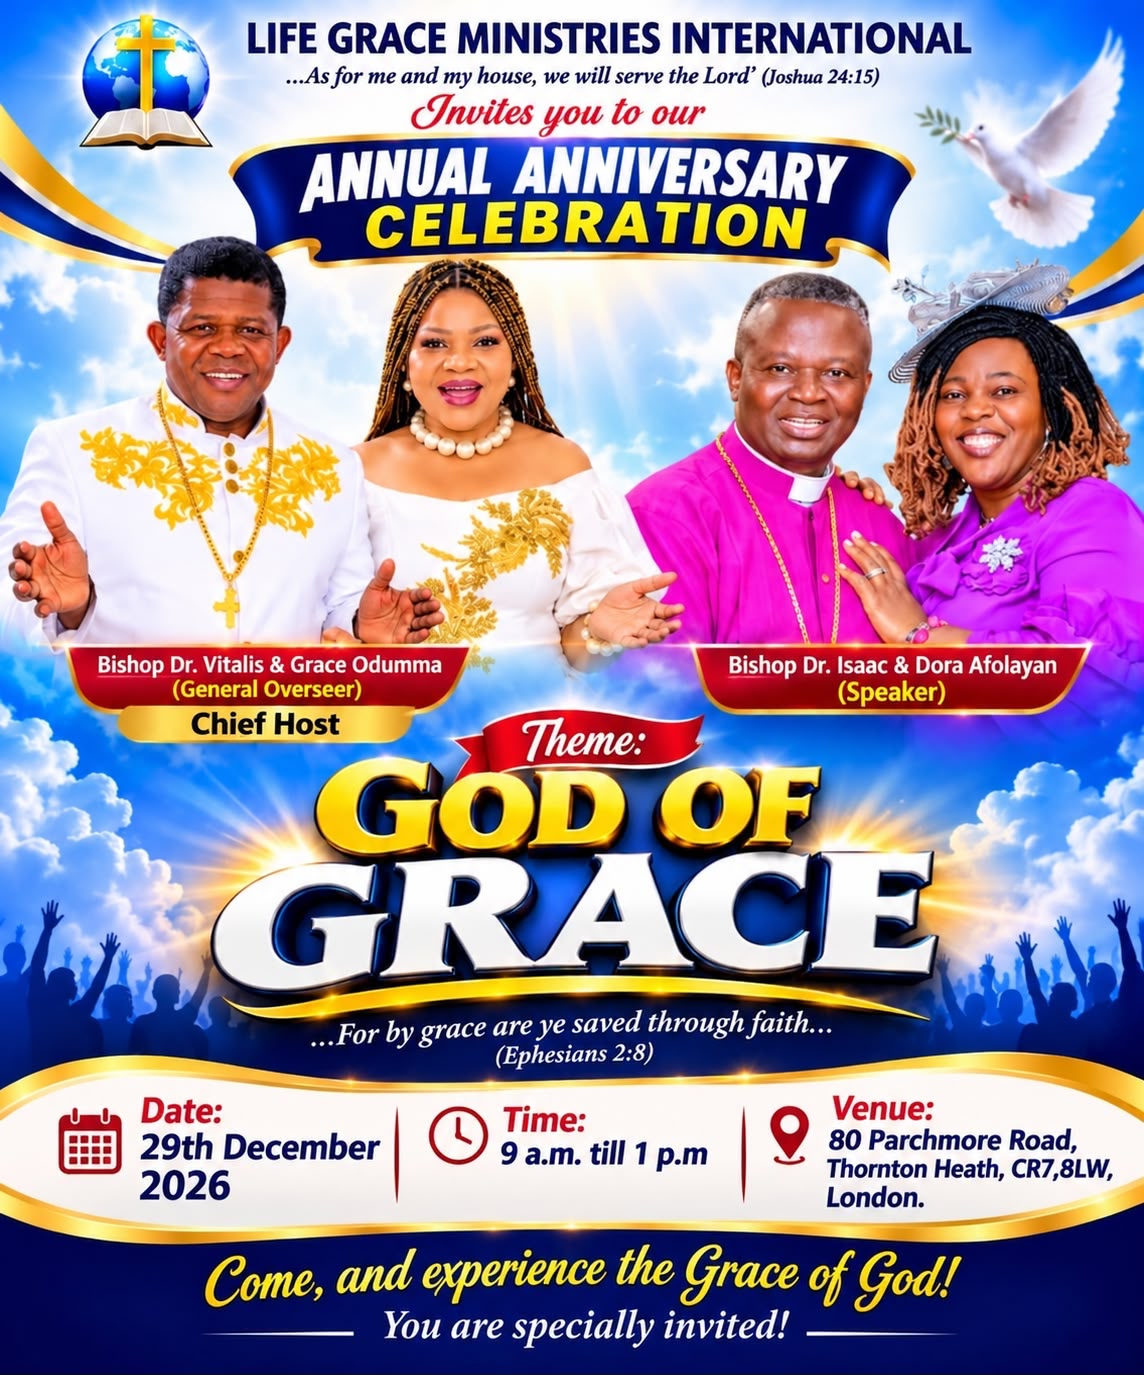
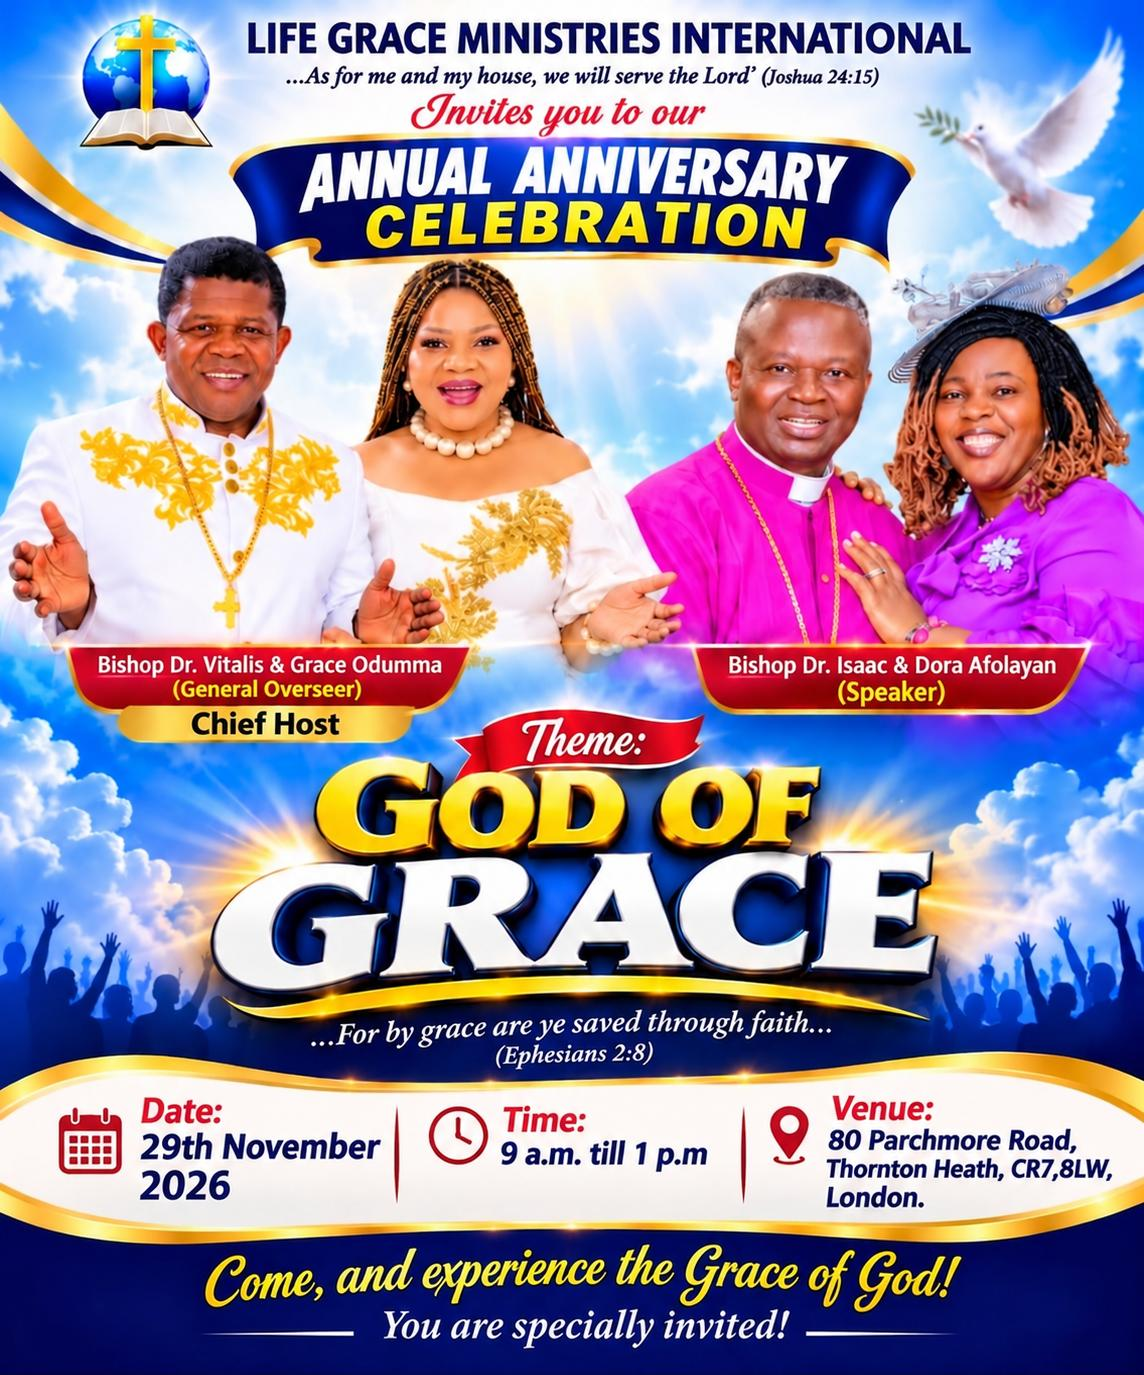
Update contact details

diff --git a/contact.html b/contact.html
@@ -61,7 +61,7 @@
                                 d="M22 16.9v3a2 2 0 0 1-2.2 2 19.8 19.8 0 0 1-8.6-3.1 19.5 19.5 0 0 1-6-6A19.8 19.8 0 0 1 2.1 4.2 2 2 0 0 1 4.1 2h3a2 2 0 0 1 2 1.7c.1 1 .4 1.9.7 2.8a2 2 0 0 1-.5 2.1L8.1 9.9a16 16 0 0 0 6 6l1.3-1.3a2 2 0 0 1 2.1-.4c.9.3 1.8.6 2.8.7a2 2 0 0 1 1.7 2z" />
                         </svg>
                         <div>
-                            <h3>Call Us</h3><a href="tel:+234 810 274 0666">+234 810 274 0666</a>
+                            <h3>Call Us</h3><a href="tel:+442086179624">+020 8617 9624</a>
                         </div>
                     </div>
                     <div class="cbox rv"><svg width="28" style="color:#F26A1B;flex:none" viewBox="0 0 24 24" fill="none"
@@ -71,7 +71,7 @@
                         </svg>
                         <div>
                             <h3>Visit Us</h3>
-                            <p>Lord's City Adoration Ground, Umuocheta, Amiri, Imo State, Nigeria</p>
+                            <p>Life Grace Ministries International,  80 Parchmore Rd, Thornton Heath CR7 8LW</p>
                         </div>
                     </div>
                     <div class="cbox rv"><svg width="28" style="color:#F26A1B;flex:none" viewBox="0 0 24 24" fill="none"
@@ -120,8 +120,8 @@
                     </form>
                 </div>
                 <div class="rv">
-                    <div class="map"><iframe title="Lord's City location"
-                            src="https://maps.google.com/maps?q=Amiri%20Imo%20State%20Nigeria&amp;z=13&amp;output=embed"
+                    <div class="map"><iframe title="Life Grace Ministries International location"
+                            src="https://maps.google.com/maps?q=Life%20Grace%20Ministries%20International%2C%2080%20Parchmore%20Rd%2C%20Thornton%20Heath%20CR7%208LW&amp;z=15&amp;output=embed"
                             loading="lazy"></iframe></div>
                     <div class="box" style="margin-top:20px">
                         <h3>Prayer &amp; Counselling</h3>
@@ -175,9 +175,9 @@
                 <div>
                     <h4>Contact Info</h4>
                     <ul>
-                        <li>&#9742; <a href="tel:+442086179624">+44 (0)20 8617 9624</a></li>
+                        <li>&#9742; <a href="tel:+442086179624">+020 8617 9624</a></li>
                         <li>&#9993; <a href="mailto:info@lifegraceministries.com">info@lifegraceministries.com</a></li>
-                        <li>&#9906; Lord's City Adoration Ground, Umuocheta, Amiri, Imo State, Nigeria</li>
+                        <li>&#9906; Life Grace Ministries International, 80 Parchmore Rd, Thornton Heath CR7 8LW</li>
                     </ul><a class="btn o" style="margin-top:8px" href="donate.html">Donate Now</a>
                 </div>
             </div>

diff --git a/events.html b/events.html
@@ -113,7 +113,7 @@
 
                             <div>
                                 <small>Date</small>
-                                29th December 2026
+                                29th November 2026
                             </div>
 
                             <div>
@@ -281,9 +281,9 @@
                 <div>
                     <h4>Contact Info</h4>
                     <ul>
-                        <li>&#9742; <a href="tel:+442086179624">+44 (0)20 8617 9624</a></li>
+                        <li>&#9742; <a href="tel:+442086179624">+020 8617 9624</a></li>
                         <li>&#9993; <a href="mailto:info@lifegraceministries.com">info@lifegraceministries.com</a></li>
-                        <li>&#9906; Lord's City Adoration Ground, Umuocheta, Amiri, Imo State, Nigeria</li>
+                        <li>&#9906; Life Grace Ministries International, 80 Parchmore Rd, Thornton Heath CR7 8LW</li>
                     </ul><a class="btn o" style="margin-top:8px" href="donate.html">Donate Now</a>
                 </div>
             </div>

diff --git a/index.html b/index.html
@@ -395,9 +395,9 @@
                 <div>
                     <h4>Contact Info</h4>
                     <ul>
-                        <li>&#9742; <a href="tel:+442086179624">+44 (0)20 8617 9624</a></li>
+                        <li>&#9742; <a href="tel:+020 8617 9624">+020 8617 9624</a></li>
                         <li>&#9993; <a href="mailto:info@lifegraceministries.com">info@lifegraceministries.com</a></li>
-                        <li>&#9906; Lord's City Adoration Ground, Umuocheta, Amiri, Imo State, Nigeria</li>
+                        <li>&#9906; Life Grace Ministries International, 80 Parchmore Rd, Thornton Heath CR7 8LW</li>
                     </ul><a class="btn o" style="margin-top:8px" href="donate.html">Donate Now</a>
                 </div>
             </div>

diff --git a/about.html b/about.html
@@ -293,9 +293,9 @@
                 <div>
                     <h4>Contact Info</h4>
                     <ul>
-                        <li>&#9742; <a href="tel:+442086179624">+44 (0)20 8617 9624</a></li>
+                        <li>&#9742; <a href="tel:+442086179624">+020 8617 9624</a></li>
                         <li>&#9993; <a href="mailto:info@lifegraceministries.com">info@lifegraceministries.com</a></li>
-                        <li>&#9906; Lord's City Adoration Ground, Umuocheta, Amiri, Imo State, Nigeria</li>
+                        <li>&#9906; Life Grace Ministries International, 80 Parchmore Rd, Thornton Heath CR7 8LW</li>
                     </ul><a class="btn o" style="margin-top:8px" href="donate.html">Donate Now</a>
                 </div>
             </div>

diff --git a/counselling.html b/counselling.html
@@ -247,9 +247,9 @@
                 <div>
                     <h4>Contact Info</h4>
                     <ul>
-                        <li>&#9742; <a href="tel:+442086179624">+44 (0)20 8617 9624</a></li>
+                        <li>&#9742; <a href="tel:+442086179624">+020 8617 9624</a></li>
                         <li>&#9993; <a href="mailto:info@lifegraceministries.com">info@lifegraceministries.com</a></li>
-                        <li>&#9906; Lord's City Adoration Ground, Umuocheta, Amiri, Imo State, Nigeria</li>
+                        <li>&#9906; Life Grace Ministries International, 80 Parchmore Rd, Thornton Heath CR7 8LW</li>
                     </ul><a class="btn o" style="margin-top:8px" href="donate.html">Donate Now</a>
                 </div>
             </div>

diff --git a/donate.html b/donate.html
@@ -141,9 +141,9 @@
                 <div>
                     <h4>Contact Info</h4>
                     <ul>
-                        <li>&#9742; <a href="tel:+442086179624">+44 (0)20 8617 9624</a></li>
+                        <li>&#9742; <a href="tel:+442086179624">+020 8617 9624</a></li>
                         <li>&#9993; <a href="mailto:info@lifegraceministries.com">info@lifegraceministries.com</a></li>
-                        <li>&#9906; Lord's City Adoration Ground, Umuocheta, Amiri, Imo State, Nigeria</li>
+                        <li>&#9906; Life Grace Ministries International, 80 Parchmore Rd, Thornton Heath CR7 8LW</li>
                     </ul><a class="btn o" style="margin-top:8px" href="donate.html">Donate Now</a>
                 </div>
             </div>

diff --git a/gallery.html b/gallery.html
@@ -159,9 +159,9 @@
                 <div>
                     <h4>Contact Info</h4>
                     <ul>
-                        <li>&#9742; <a href="tel:+442086179624">+44 (0)20 8617 9624</a></li>
+                        <li>&#9742; <a href="tel:+442086179624">+020 8617 9624</a></li>
                         <li>&#9993; <a href="mailto:info@lifegraceministries.com">info@lifegraceministries.com</a></li>
-                        <li>&#9906; Lord's City Adoration Ground, Umuocheta, Amiri, Imo State, Nigeria</li>
+                        <li>&#9906; Life Grace Ministries International, 80 Parchmore Rd, Thornton Heath CR7 8LW</li>
                     </ul><a class="btn o" style="margin-top:8px" href="donate.html">Donate Now</a>
                 </div>
             </div>

diff --git a/lords-city.html b/lords-city.html
@@ -270,9 +270,9 @@
                 <div>
                     <h4>Contact Info</h4>
                     <ul>
-                        <li>&#9742; <a href="tel:+442086179624">+44 (0)20 8617 9624</a></li>
+                        <li>&#9742; <a href="tel:+442086179624">+020 8617 9624</a></li>
                         <li>&#9993; <a href="mailto:info@lifegraceministries.com">info@lifegraceministries.com</a></li>
-                        <li>&#9906; Lord's City Adoration Ground, Umuocheta, Amiri, Imo State, Nigeria</li>
+                        <li>&#9906; Life Grace Ministries International, 80 Parchmore Rd, Thornton Heath CR7 8LW</li>
                     </ul><a class="btn o" style="margin-top:8px" href="donate.html">Donate Now</a>
                 </div>
             </div>

diff --git a/services.html b/services.html
@@ -260,9 +260,9 @@
                 <div>
                     <h4>Contact Info</h4>
                     <ul>
-                        <li>&#9742; <a href="tel:+442086179624">+44 (0)20 8617 9624</a></li>
+                        <li>&#9742; <a href="tel:+442086179624">+020 8617 9624</a></li>
                         <li>&#9993; <a href="mailto:info@lifegraceministries.com">info@lifegraceministries.com</a></li>
-                        <li>&#9906; Lord's City Adoration Ground, Umuocheta, Amiri, Imo State, Nigeria</li>
+                        <li>&#9906; Life Grace Ministries International, 80 Parchmore Rd, Thornton Heath CR7 8LW</li>
                     </ul><a class="btn o" style="margin-top:8px" href="donate.html">Donate Now</a>
                 </div>
             </div>

diff --git a/sunday-service.html b/sunday-service.html
@@ -195,9 +195,9 @@
                 <div>
                     <h4>Contact Info</h4>
                     <ul>
-                        <li>&#9742; <a href="tel:+442086179624">+44 (0)20 8617 9624</a></li>
+                        <li>&#9742; <a href="tel:+442086179624">+020 8617 9624</a></li>
                         <li>&#9993; <a href="mailto:info@lifegraceministries.com">info@lifegraceministries.com</a></li>
-                        <li>&#9906; Lord's City Adoration Ground, Umuocheta, Amiri, Imo State, Nigeria</li>
+                        <li>&#9906; Life Grace Ministries International, 80 Parchmore Rd, Thornton Heath CR7 8LW</li>
                     </ul><a class="btn o" style="margin-top:8px" href="donate.html">Donate Now</a>
                 </div>
             </div>

diff --git a/thursday-service.html b/thursday-service.html
@@ -177,9 +177,9 @@
                 <div>
                     <h4>Contact Info</h4>
                     <ul>
-                        <li>&#9742; <a href="tel:+442086179624">+44 (0)20 8617 9624</a></li>
+                        <li>&#9742; <a href="tel:+442086179624">+020 8617 9624</a></li>
                         <li>&#9993; <a href="mailto:info@lifegraceministries.com">info@lifegraceministries.com</a></li>
-                        <li>&#9906; Lord's City Adoration Ground, Umuocheta, Amiri, Imo State, Nigeria</li>
+                        <li>&#9906; Life Grace Ministries International, 80 Parchmore Rd, Thornton Heath CR7 8LW</li>
                     </ul><a class="btn o" style="margin-top:8px" href="donate.html">Donate Now</a>
                 </div>
             </div>

diff --git a/vacancies.html b/vacancies.html
@@ -166,9 +166,9 @@
                 <div>
                     <h4>Contact Info</h4>
                     <ul>
-                        <li>&#9742; <a href="tel:+442086179624">+44 (0)20 8617 9624</a></li>
+                        <li>&#9742; <a href="tel:+442086179624">+020 8617 9624</a></li>
                         <li>&#9993; <a href="mailto:info@lifegraceministries.com">info@lifegraceministries.com</a></li>
-                        <li>&#9906; Lord's City Adoration Ground, Umuocheta, Amiri, Imo State, Nigeria</li>
+                        <li>&#9906; Life Grace Ministries International, 80 Parchmore Rd, Thornton Heath CR7 8LW</li>
                     </ul><a class="btn o" style="margin-top:8px" href="donate.html">Donate Now</a>
                 </div>
             </div>
